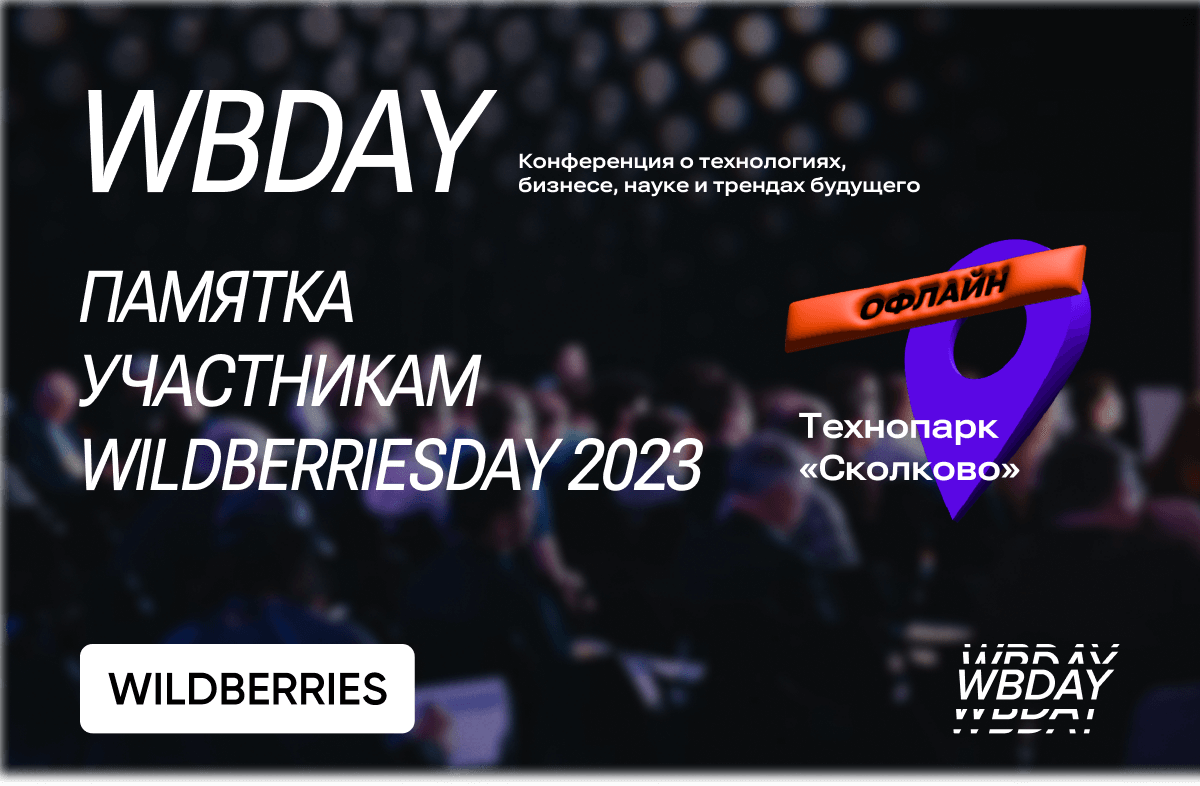
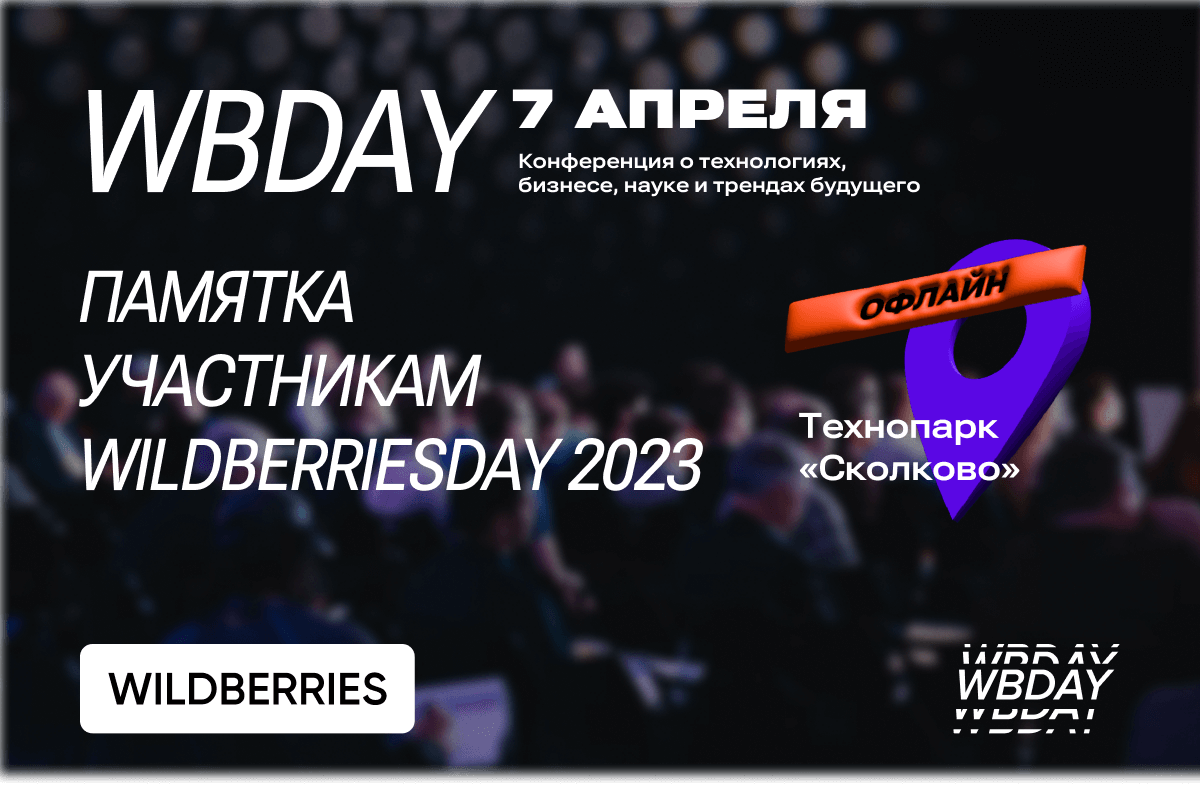
change hero img in wbday pamyatka

Changed region(s): [[0.4317, 0.0916, 0.74, 0.1832]]

diff --git a/wbday-pamyatka/email.html b/wbday-pamyatka/email.html
@@ -174,7 +174,7 @@
                                   <img
                                     alt="Title image"
                                     height="auto"
-                                    src="https://i.ibb.co/N1wSH20/hero-img.png"
+                                    src="https://i.ibb.co/4S2C8KV/hero-img.png"
                                     style="
                                       border: 0;
                                       display: block;
